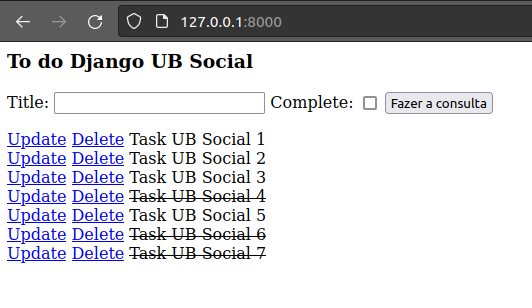
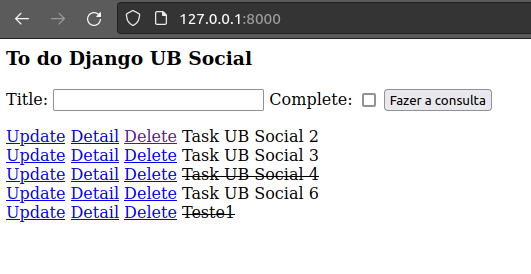
Post17 (ToDoList Django) aprimorado

diff --git a/arquivo/posts/post17.html b/arquivo/posts/post17.html
@@ -94,8 +94,11 @@
                         <li>No browser, recarregar index e verificar se aparece form de criação de task</li>
                     </ul>
                 </li>
-                <li>Em 'tasks/views.py', incluir if <span class="text-muted">(Incluir 'redirect' no from)</span></li>
-                <li>No Browser, testar inserções de tasks</li>
+                <li>Em 'tasks/views.py', incluir if <span class="text-muted">(Incluir 'redirect' no from)</span>
+                    <ul>
+                        <li>No Browser, testar inserir alguma task</li>
+                    </ul>
+                </li>
                 <br>
                 <b><u>Editar Task</u>:</b>
                 <li>Em 'tasks/templates', criar 'update_task.html'</li>
@@ -117,6 +120,17 @@
                     </ul>
                 </li>
                 <br>
+                <b><u>Ver Task</u>:</b>
+                <li>Em 'tasks/templates', criar 'detail_task.html'</li>
+                <li>Em 'tasks/views.py', criar view detailTask <span class="text-muted">(def detailTask)</span></li>
+                <li>Em 'tasks/urls.py' adicionar rota detail_task <span class="text-muted">(path)</span></li>
+                <li>Em 'tasks/templates/list.html', incluir <span class="text-muted">&lt;a&gt;Detail</span>
+                    <ul>
+                        <li>No browser, testar ver detalhes de alguma task</li>
+                    </ul>
+                </li>
+                
+                <br>
                 <b><u>Marcar Task completa/incompleta</u>:</b>
                 <li>Em 'tasks/templates/list.html', incluir 'if task.complete'</li>
             </ol>
@@ -127,9 +141,9 @@
 <small><pre><code>
 &lt;p&gt;Excluir a task "{{item}}"?&lt;/p&gt;
 &lt;a href="{% url 'list' %}"&gt;Cancelar&lt;/a&gt;
-&lt;form action="" method="POST"&gt;
+&lt;form method="POST"&gt;
     {% csrf_token %}
-    &lt;input type="submit" name="Confirmar"&gt;
+    &lt;input type="submit"&gt;
 &lt;/form&gt;
 </code></pre></small>
 
@@ -138,15 +152,16 @@
 <small><pre><code>
 &lt;h3&gt;To do Django UB Social&lt;/h3&gt;
 
-&lt;form method="POST" action="/"&gt;
+&lt;form method="POST"&gt;
     {% csrf_token %}
     {{form}}
-    &lt;input type="submit" name="Create Task"&gt;
+    &lt;input type="submit"&gt;
 &lt;/form&gt;
 
 {% for task in tasks %}
     &lt;div&gt;
-        &lt;a href="{% url 'update_task' task.id %}"&gt;Update&lt;/a&gt;
+        &lt;a href="{% url 'update' task.id %}"&gt;Update&lt;/a&gt;
+        &lt;a href="{% url 'detail' task.id %}"&gt;Detail&lt;/a&gt;
         &lt;a href="{% url 'delete' task.id %}"&gt;Delete&lt;/a&gt;
         {% if task.complete == True %}
             &lt;s&gt;{{task}}&lt;/s&gt;
@@ -158,13 +173,27 @@
 </code></pre></small>
 
             <br>
-            <p><b>tasks/templates/tasks/update_task.html</b>:</p>
+            <p><b>tasks/templates/tasks/detail.html</b>:</p>
+<small><pre><code>
+&lt;a href="{% url 'list' %}"&gt;Voltar&lt;/a&gt;&lt;br&gt;
+&lt;div class="main"&gt;
+    {{task.id}}&lt;br&gt;
+    {% if task.complete == True %}
+            &lt;s&gt;{{task.title}}&lt;/s&gt;
+        {% else %}
+            &lt;span&gt;{{task.title}}&lt;/span&gt;
+    {% endif %}
+&lt;/div&gt;
+</code></pre></small>
+
+            <br>
+            <p><b>tasks/templates/tasks/update.html</b>:</p>
 <small><pre><code>
 &lt;h3&gt;Update Task&lt;/h3&gt;
-&lt;form method="POST" action=""&gt;
+&lt;form method="POST"&gt;
     {% csrf_token %}
     {{form}}
-    &lt;input type="submit" name="Update Task"&gt;
+    &lt;input type="submit"&gt;
 &lt;/form&gt;
 </code></pre></small>
 
@@ -172,10 +201,8 @@
             <p><b>admin.py</b>:</p>
 <small><pre><code>
 from django.contrib import admin
-
-<span class="text-muted"># Register your models here.</span>
-
 from .models import *
+
 admin.site.register(Task)
 </code></pre></small>
 
@@ -183,7 +210,6 @@ admin.site.register(Task)
             <p><b>apps.py</b>:</p>
 <small><pre><code>
 from django.apps import AppConfig
-
 
 class TasksConfig(AppConfig):
     default_auto_field = 'django.db.models.BigAutoField'
@@ -208,13 +234,10 @@ class TaskForm(forms.ModelForm):
 <small><pre><code>
 from django.db import models
 
-<span class="text-muted"># Create your models here.</span>
-
 class Task(models.Model):
     title = models.CharField(max_length=200)
     complete = models.BooleanField(default=False)
     created = models.DateTimeField(auto_now_add=True)
-
     def __str__(self):
         return self.title
 </code></pre></small>
@@ -227,7 +250,8 @@ from . import views
 
 urlpatterns = [
     path('', views.index, name="list"),
-    path('update_task/&lt;str:pk&gt;/', views.updateTask, name="update_task"),
+    path('task/&lt;str:pk&gt;/', views.detailTask, name="detail"),
+    path('update/&lt;str:pk&gt;/', views.updateTask, name="update"),
     path('delete/&lt;str:pk&gt;/', views.deleteTask, name="delete"),
 ]
 </code></pre></small>
@@ -240,8 +264,6 @@ from django.http import HttpResponse
 from .models import *
 from .forms import *
 
-<span class="text-muted"># Create your views here.</span>
-
 def index(request):
     tasks = Task.objects.all()
     form = TaskForm()
@@ -253,6 +275,11 @@ def index(request):
     context = {'tasks':tasks, 'form':form}
     return render(request, 'tasks/list.html', context)
 
+def detailTask(request, pk):
+    context = {}
+    context["data"] = Task.objects.get(id=pk)
+    return render(request, 'tasks/detail.html', context)
+
 def updateTask(request, pk):
     task = Task.objects.get(id=pk)
     form = TaskForm(instance=task)
@@ -262,7 +289,7 @@ def updateTask(request, pk):
             form.save()
             return redirect('/')
     context = {'form':form}
-    return render(request, 'tasks/update_task.html', context)
+    return render(request, 'tasks/update.html', context)
 
 def deleteTask(request, pk):
     item = Task.objects.get(id=pk)
